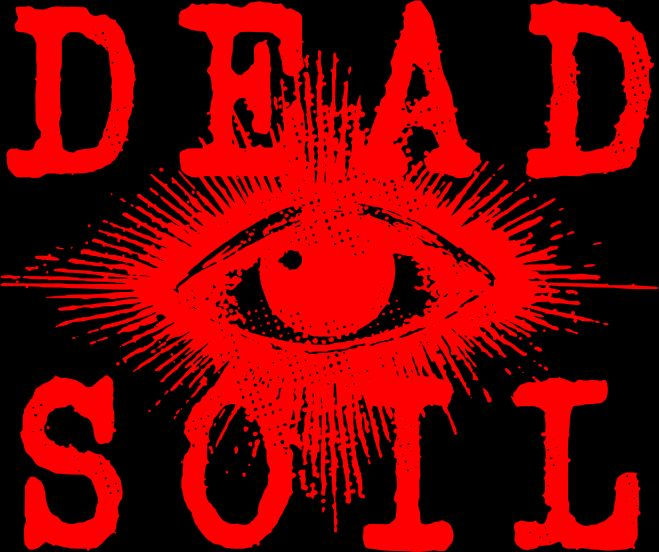
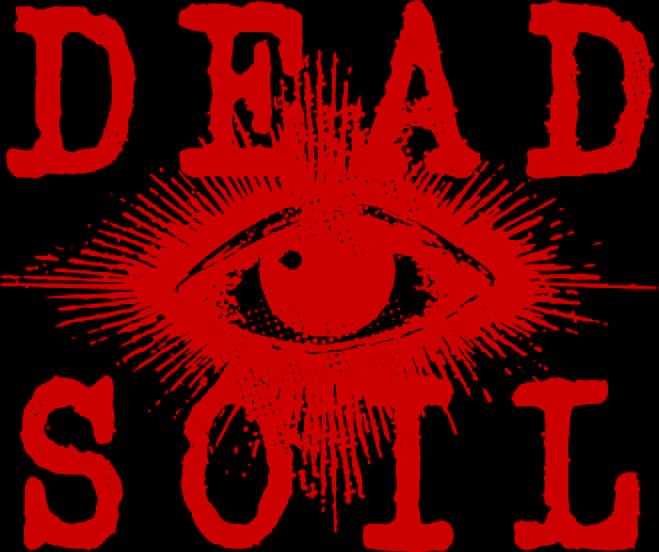
new links etc

diff --git a/index.html b/index.html
@@ -72,7 +72,7 @@
 
         li {
             margin: 1em 0;
-            color: #ff0000;
+            color: #cc0000;
         }
 
         a {
@@ -80,7 +80,7 @@
         }
 
         a:hover, a:focus {
-            color: #ff0000;
+            color: #cc0000;
         }
 
         li h2 {
@@ -90,8 +90,8 @@
         }
 
         li a {
-            color: #ff0000;
-            border: 1px solid #ff0000;
+            color: #cc0000;
+            border: 1px solid #cc0000;
             border-radius: 4px;
             padding: 1em;
             display: block;
@@ -100,7 +100,7 @@
         }
 
         li a:hover, li a:focus {
-            background: #ff0000;
+            background: #cc0000;
             color: #000;
         }
 
@@ -111,7 +111,7 @@
         }
 
         h2 {
-            color: #ff0000;
+            color: #cc0000;
         }
 
         h3 {
@@ -132,36 +132,46 @@
 
     <ul>
         <li>
-            <a href="https://youtu.be/mAKQIDThtRg">Watch "Endless (Official Video)"</a>
+            <a href="https://open.spotify.com/album/5FawPEVcl5BJa9nbB6xoC6">[NEW] LIVE:NULL on Spotify</a>
         </li>
         <li>
-            <a href="https://open.spotify.com/album/5dvrVJ2o294MlsgKKUmiU3">Listen on Spotify</a>
+            <a href="https://music.apple.com/en/album/live-null/1887639736">[NEW] LIVE:NULL on Apple Music</a>
         </li>
         <li>
             <a href="https://www.instagram.com/dead__soil/">Follow on Instagram</a>
         </li>
         <li>
-            <a href="https://music.apple.com/us/album/231-single/1624218374">Listen on Apple Music</a>
+            <a href="https://youtu.be/mAKQIDThtRg">Watch "Endless (Official Video)"</a>
         </li>
         <li>
             <a href="https://matriarchrecords.bandcamp.com/album/231">Buy "231" on Cassette Tape</a>
         </li>
         <li>
+            <a href="/lyrics">Read the lyrics</a>
+        </li>
+        <li>
+            <h2>Listen:</h2>
+        </li>
+        <li>
+            <a href="https://open.spotify.com/artist/7F3lGFvsnP3NTvK3NIAK9c">Listen on Spotify</a>
+        </li>
+        <li>
+            <a href="https://music.apple.com/en/artist/dead-soil/1624210828">Listen on Apple Music</a>
+        </li>
+        <li>
             <a href="https://matriarchrecords.bandcamp.com/album/231">Listen on Bandcamp</a>
         </li>
         <li>
-            <a href="https://www.youtube.com/watch?v=JRQca1XYglM&list=OLAK5uy_lGHkjD7RPWFaWFrQWI-3xZDrol653Fe7U">Listen on YouTube</a>
-        </li>
-        <li>
-            <a href="/lyrics">Read the lyrics</a>
+            <a href="https://www.youtube.com/channel/UCOaD6lXk31my9l_pB5LeTLw">Listen on YouTube</a>
         </li>
         <li>
             <h2>Catch us Live:</h2>
         </li>
         <li>
-            <a href="https://www.bluecollarcafe.nl/">
-                <em>November 1st, 2025:</em> Blue Collar Café, Eindhoven NL /w Radeloos//Ziedend, Mould
-            </a>
+            New info soon...
+<!--            <a href="https://www.bluecollarcafe.nl/">-->
+<!--                <em>November 1st, 2025:</em> Blue Collar Café, Eindhoven NL /w Radeloos//Ziedend, Mould-->
+<!--            </a>-->
         </li>
     </ul>
 
